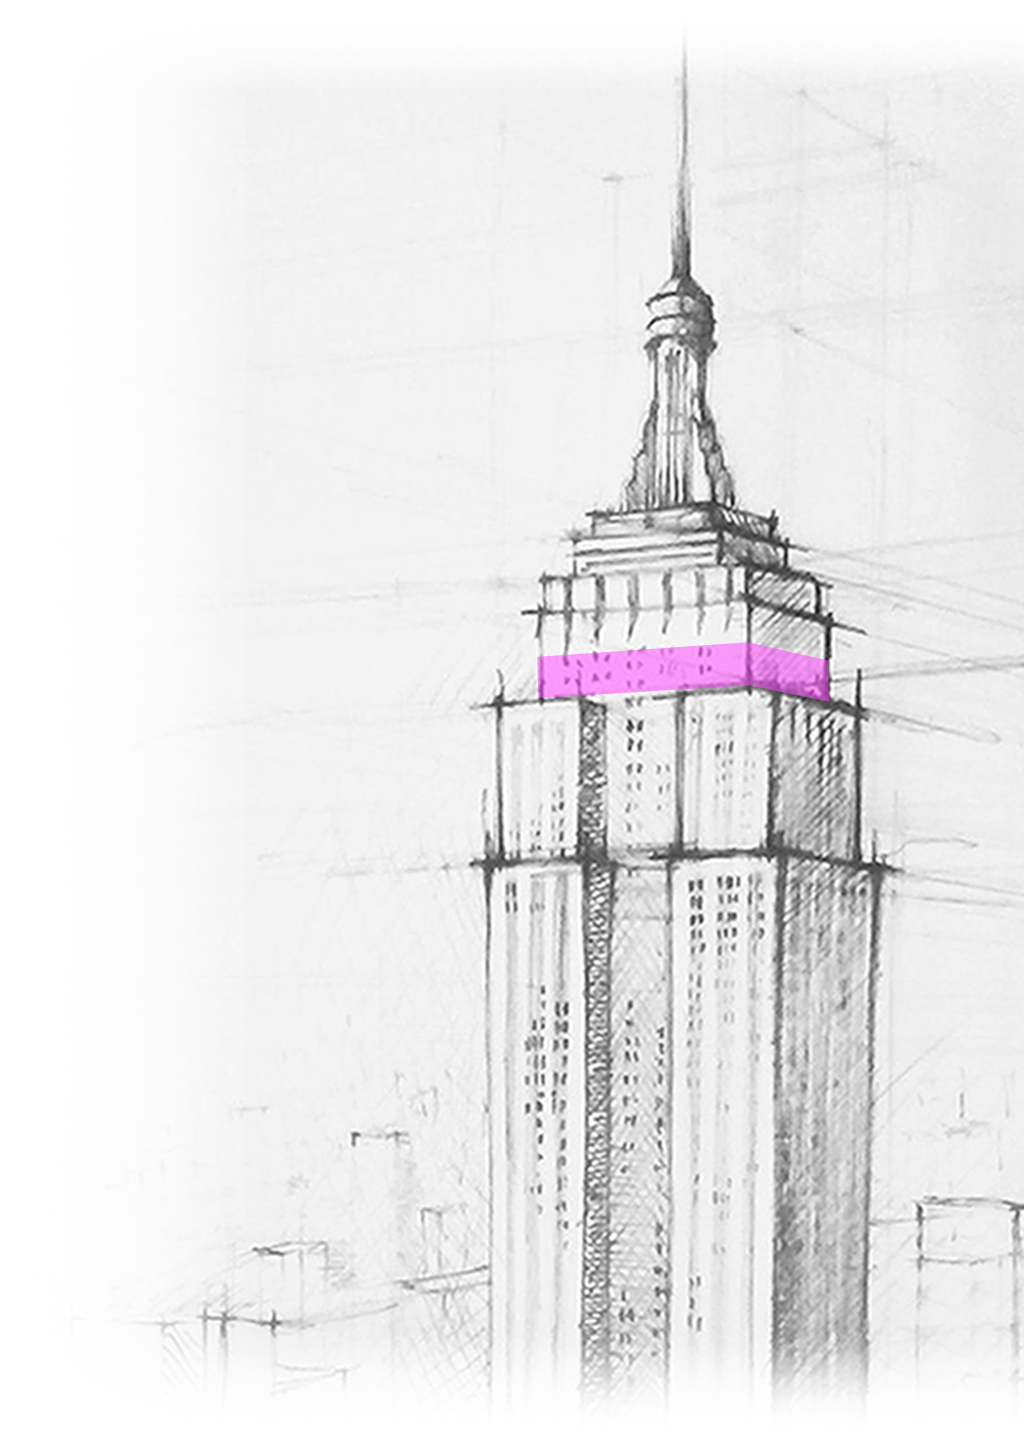
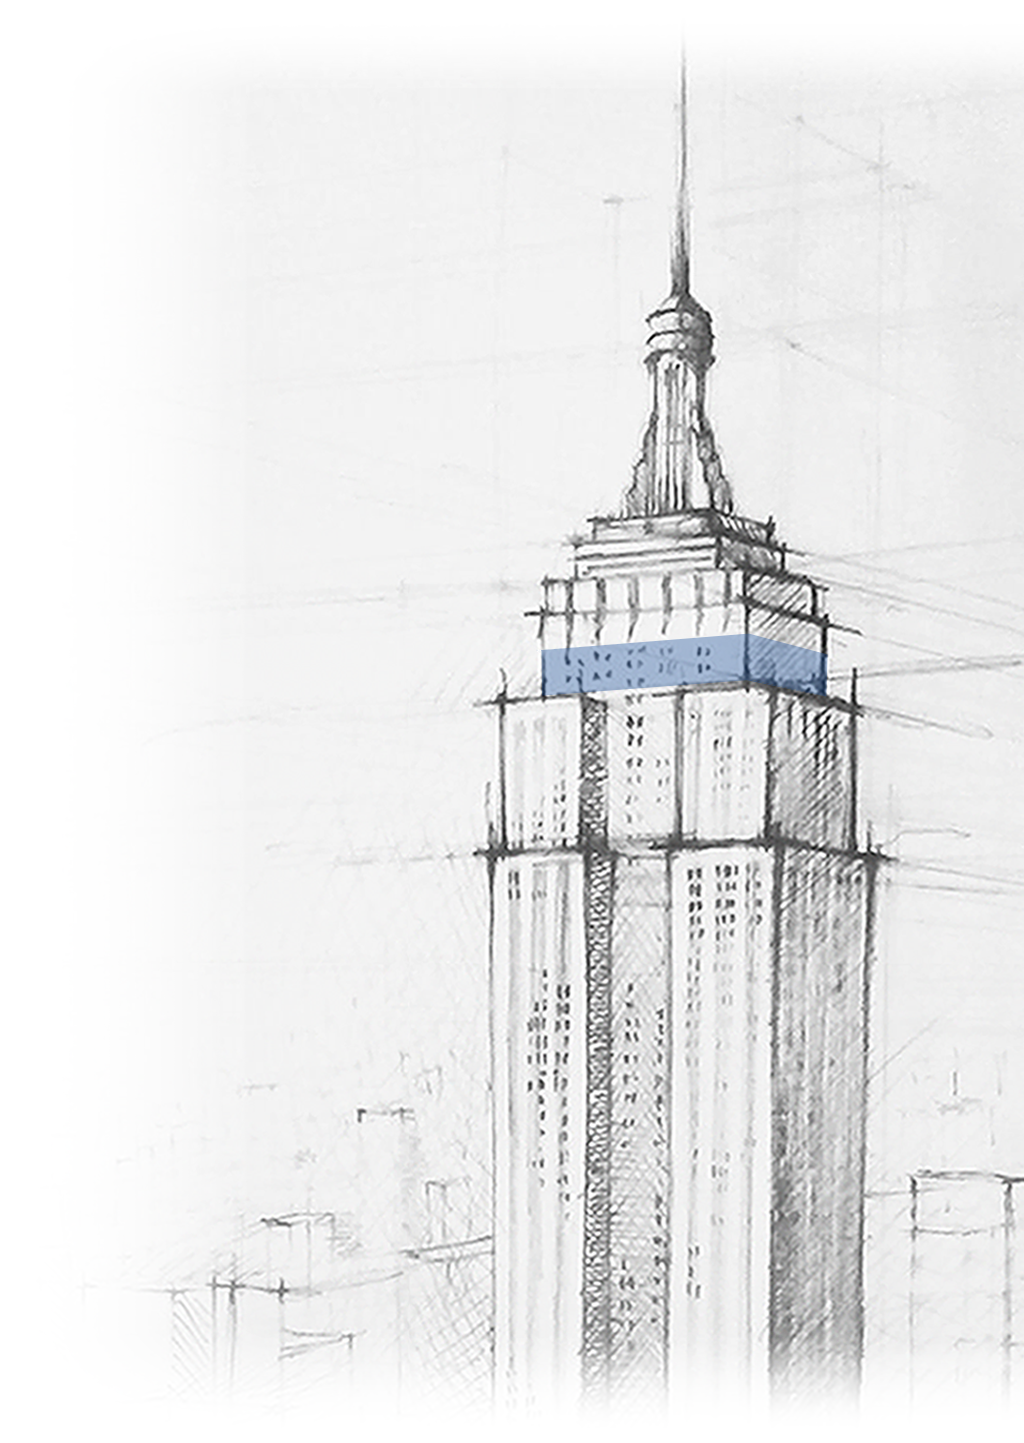
Updated scrolling frames to im improve timing

Changed region(s): [[0.375, 0.0624, 1.0, 0.9667], [0.1562, 0.842, 0.3438, 0.9356], [0.3438, 0.7484, 0.4062, 0.8108]]

diff --git a/index.html b/index.html
@@ -20,8 +20,7 @@
           <hr>
           <h5>Add a 3D map-view to your website to demystify location online and deliver an intuitive 3D experience for your clients
             <br>
-            <a href="https://docs.google.com/forms/d/e/1FAIpQLScK52T5VzrrfjDlisRN7feWXBPYXe7sAjofWS8X2CDzMg4dPw/viewform?usp=pp_url " target="_blank"><button type="button" name="button" class="btn btn-outline-primary">Request Beta Access</button></a>
-          </h5>
+            <a href="https://docs.google.com/forms/d/e/1FAIpQLScK52T5VzrrfjDlisRN7feWXBPYXe7sAjofWS8X2CDzMg4dPw/viewform?usp=pp_url " target="_blank"><button type="button" name="button" class="btn btn-outline-primary">Request Beta Access</button></a></h5>
         </div>
         <div class="arrow bounce">
           <i class="fas fa-chevron-down" aria-hidden="true"></i>
@@ -180,9 +179,9 @@
       <img class="animated" src="assets/lib/imgs/es32.png" alt="">
       <!-- <img class="animated" src="assets/lib/imgs/es33.png" alt=""> -->
       <img class="animated" src="assets/lib/imgs/es34.png" alt="">
-      <img class="animated" src="assets/lib/imgs/es35.png" alt="">
+      <!-- <img class="animated" src="assets/lib/imgs/es35.png" alt=""> -->
       <img class="animated" src="assets/lib/imgs/es36.png" alt="">
-      <img class="animated" src="assets/lib/imgs/es37.png" alt="">
+      <!-- <img class="animated" src="assets/lib/imgs/es37.png" alt=""> -->
       <img class="animated" src="assets/lib/imgs/es38.png" alt="">
       <img class="animated" src="assets/lib/imgs/es39.png" alt="">
       <img class="animated" src="assets/lib/imgs/es40.png" alt="">
@@ -213,7 +212,7 @@
       <img class="animated" src="assets/lib/imgs/es53.png" alt="">
 
       <!-- Fully highlighted -->
-      <img class="animated" src="assets/lib/imgs/es53.png" alt="">
+
       <!-- <img class="animated" src="assets/lib/imgs/es53.png" alt="">
       <img class="animated" src="assets/lib/imgs/es53.png" alt="">
       <img class="animated" src="assets/lib/imgs/es53.png" alt=""> -->
@@ -246,14 +245,16 @@
 
       <img class="animated" src="assets/lib/imgs/es70.png" alt="">
       <img class="animated" src="assets/lib/imgs/es71.png" alt="">
+      <img class="animated" src="assets/lib/imgs/es72.png" alt="">
       <img class="animated" src="assets/lib/imgs/es73.png" alt="">
       <img class="animated" src="assets/lib/imgs/es74.png" alt="">
       <img class="animated" src="assets/lib/imgs/es75.png" alt="">
       <img class="animated" src="assets/lib/imgs/es76.png" alt="">
       <img class="animated" src="assets/lib/imgs/es77.png" alt="">
+      <img class="animated" src="assets/lib/imgs/es78.png" alt="">
 
       <!-- Blank image  -->
-      <img class="animated" src="assets/lib/imgs/es78.png" alt="">
+      <img class="animated" src="assets/lib/imgs/es79.png" alt="">
     </div>
   </div>
 

diff --git a/assets/css/styles.css b/assets/css/styles.css
@@ -33,14 +33,8 @@
     left: -289px; /*250+45-6*/
   }
 
-  .arrow {
-    position: absolute;
-    bottom: 0;
-    left: 50%;
-    margin-left: -20px;
-    width: 40px;
-    height: 80px;
-    font-size: 3em;
+  .fa-chevron-down{
+    opacity: 0;
   }
 
   .textContent{
@@ -93,7 +87,7 @@
   }
 
   .firstArrow{
-    border: rgb(255,78,255) solid;
+    border: rgb(40, 90, 160) solid;
   }
   .secondArrow{
     border: rgb(250,122,122) solid;
@@ -141,7 +135,6 @@
     font-size: 1.25em;
   }
 }
-
 
 body{
   font-family: Roboto;
@@ -213,8 +206,8 @@ a:hover{
 
 #jumboOne{
   box-shadow:
-  0 6px 8px 0 rgba(255,78,255,0.22),
-  0 2px 4px 0 rgba(255,78,255,0.08);
+  0 6px 8px 0 rgba(40, 90, 160,0.22),
+  0 2px 4px 0 rgba(40, 90, 160,0.08);
 }
 
 #jumboTwo{
@@ -337,7 +330,7 @@ a:hover{
 }
 
 .firstLoader{
-  background: rgb(255,78,255);
+  background: rgb(40, 90, 160);
 }
 
 .secondLoader{
@@ -607,6 +600,6 @@ i{
 video{
   display: block;
   margin: 0 auto;
-  width: 100%;
-  height: auto;
+  width: auto;
+  height: 85vh;
 }
